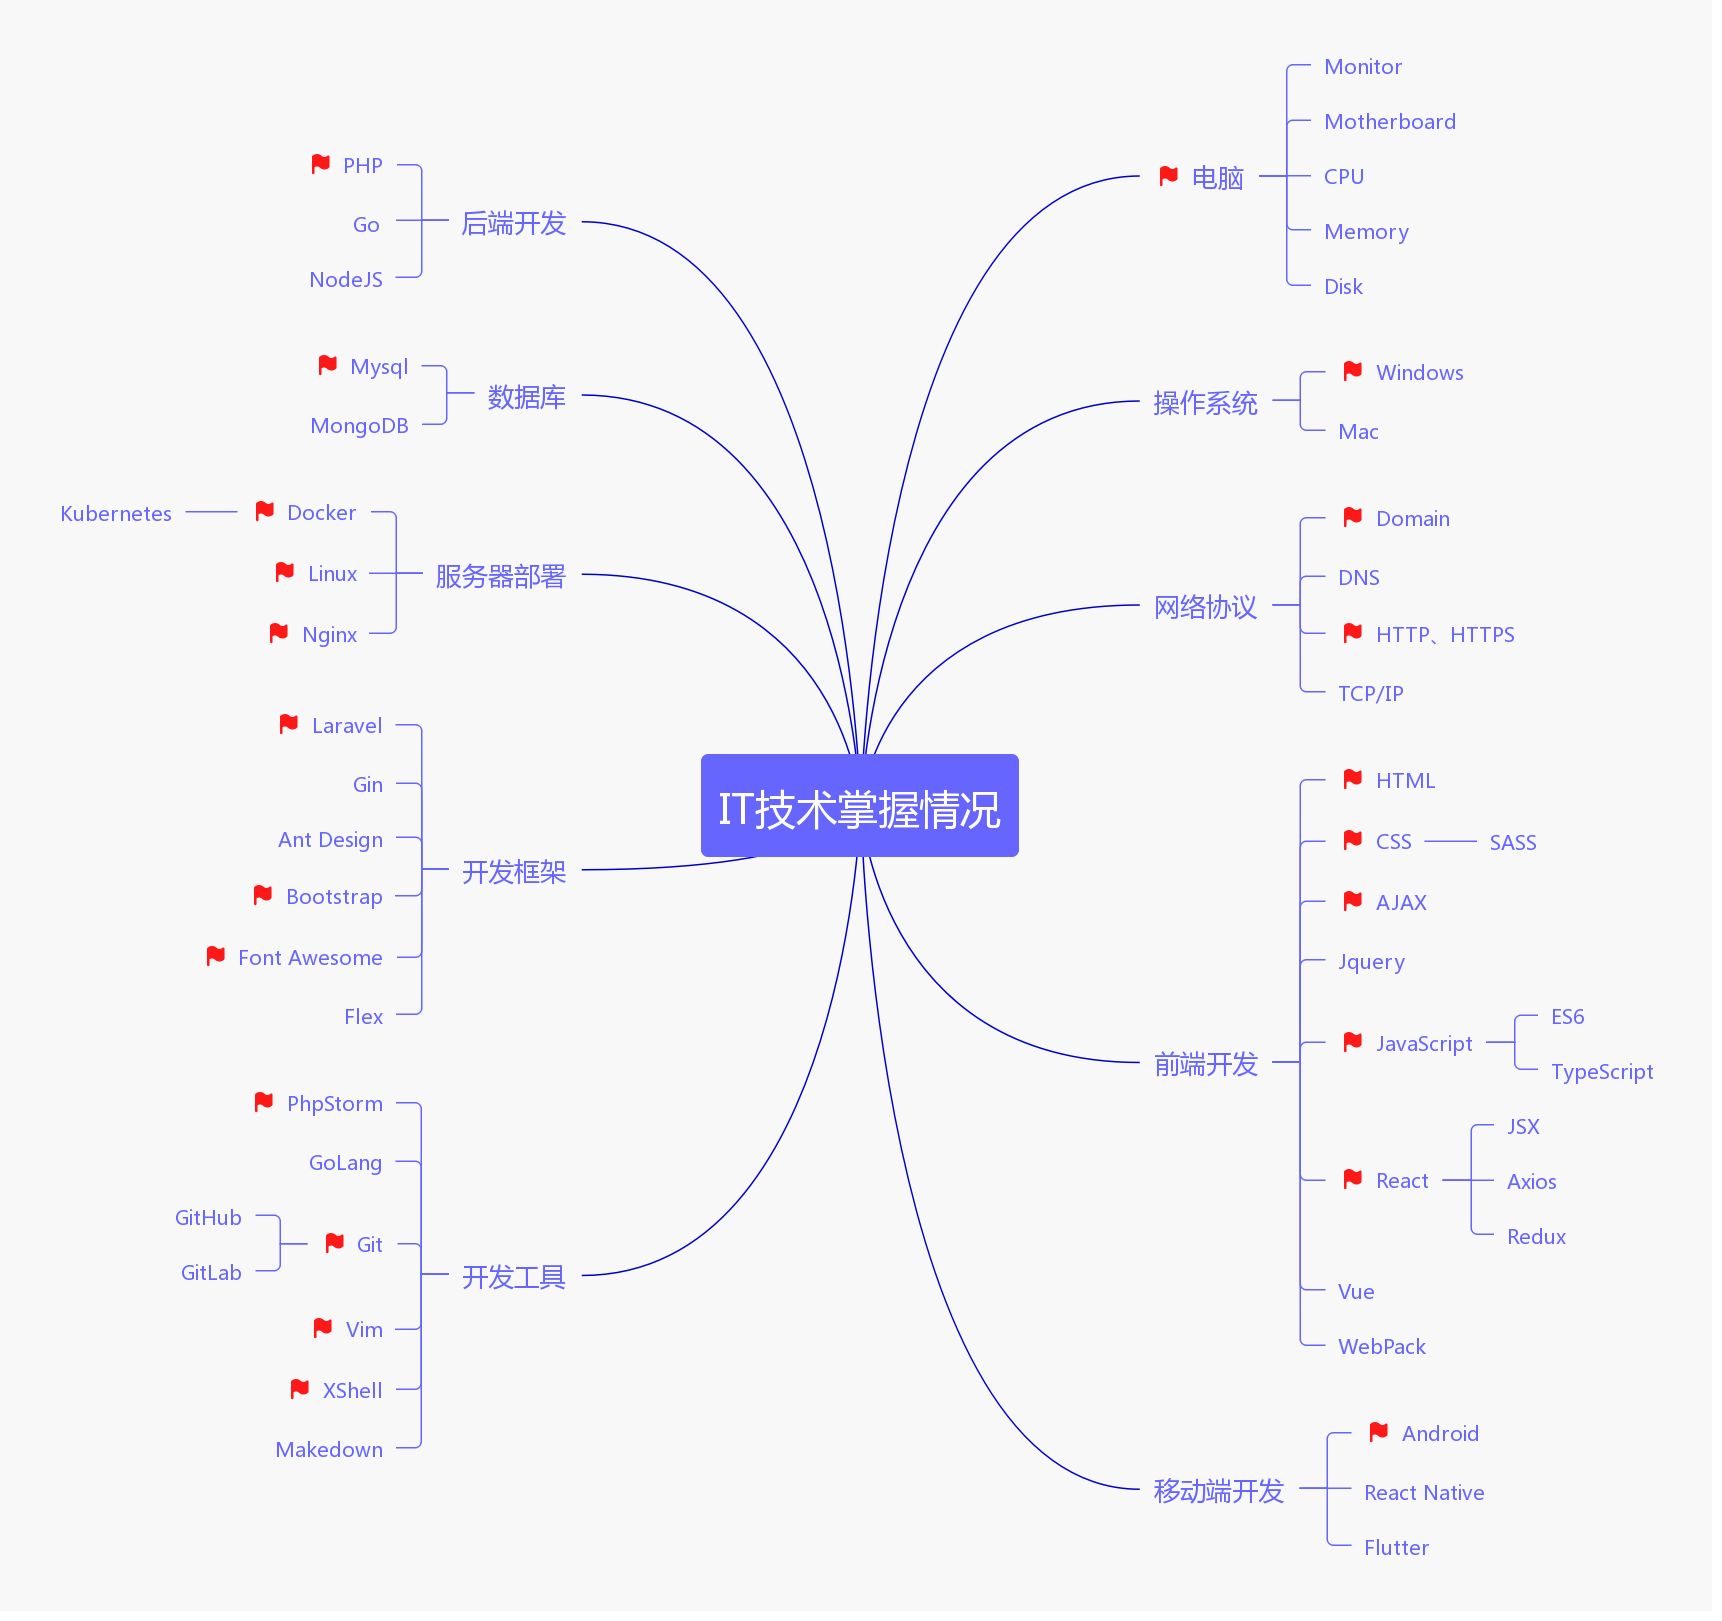
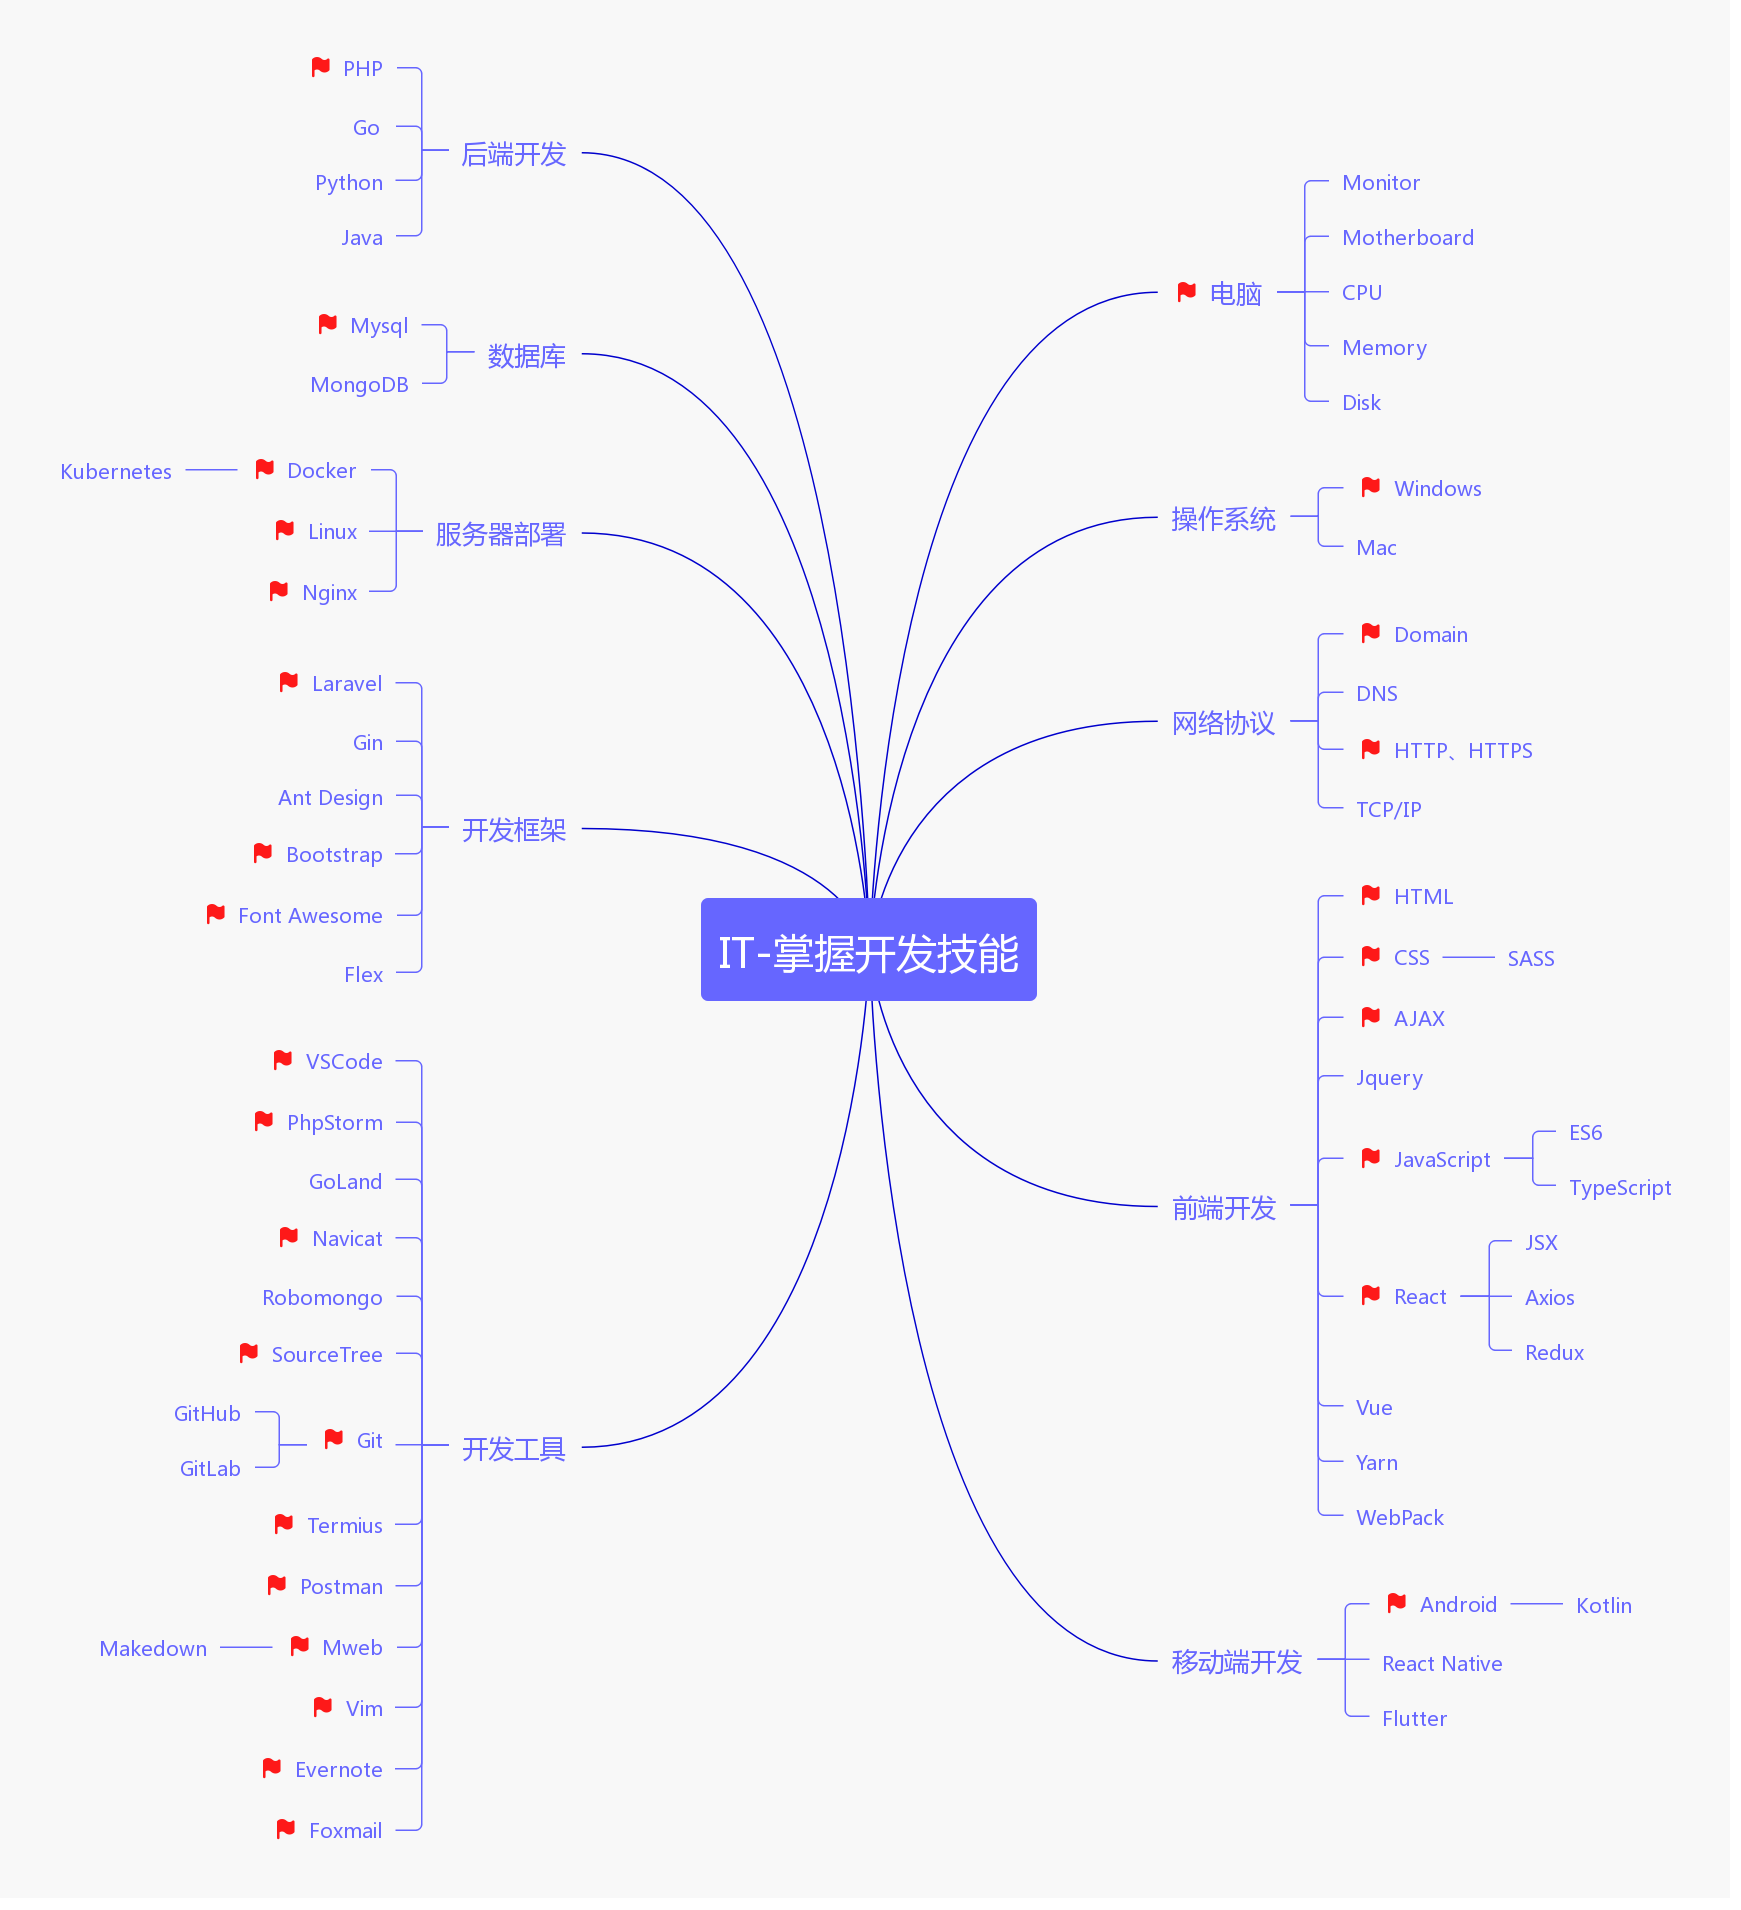
GitBook: [master] 2 pages and one asset modified

diff --git a/SUMMARY.md b/SUMMARY.md
@@ -21,7 +21,7 @@
 ## IT编程设计 <a id="it-code"></a>
 
 * [IT-Web开发入门](it-code/itweb-kai-fa-ru-men.md)
-* [IT-技术掌握情况](it-code/learn-it.md)
+* [IT-掌握开发技能](it-code/learn-it.md)
 * [Docker-部署LNMP](it-code/lnmp-for-docker.md)
 * [PHP-开发框架](it-code/php-development-framework.md)
 * [深入理解控制反转（IoC）和依赖注入（DI）](it-code/ioc-di.md)

diff --git a/it-code/learn-it.md b/it-code/learn-it.md
@@ -1,4 +1,4 @@
-# IT-技术掌握情况
+# IT-掌握开发技能
 
 ![](../.gitbook/assets/learn-it.jpg)
 
